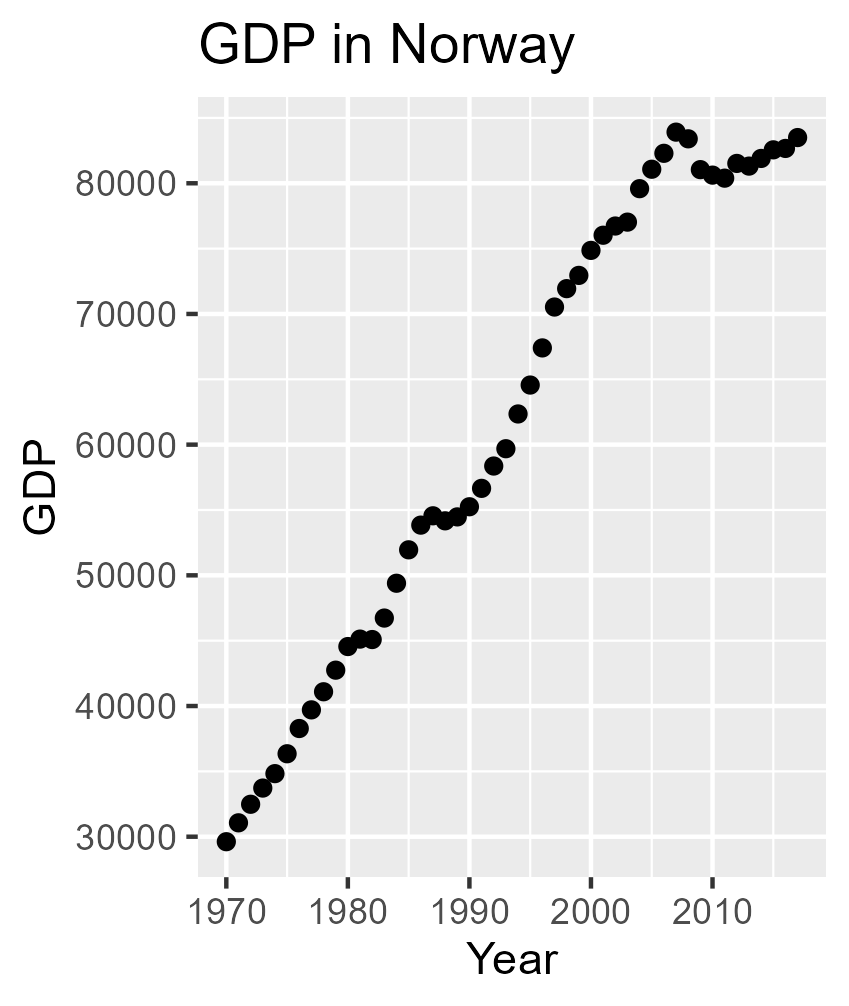
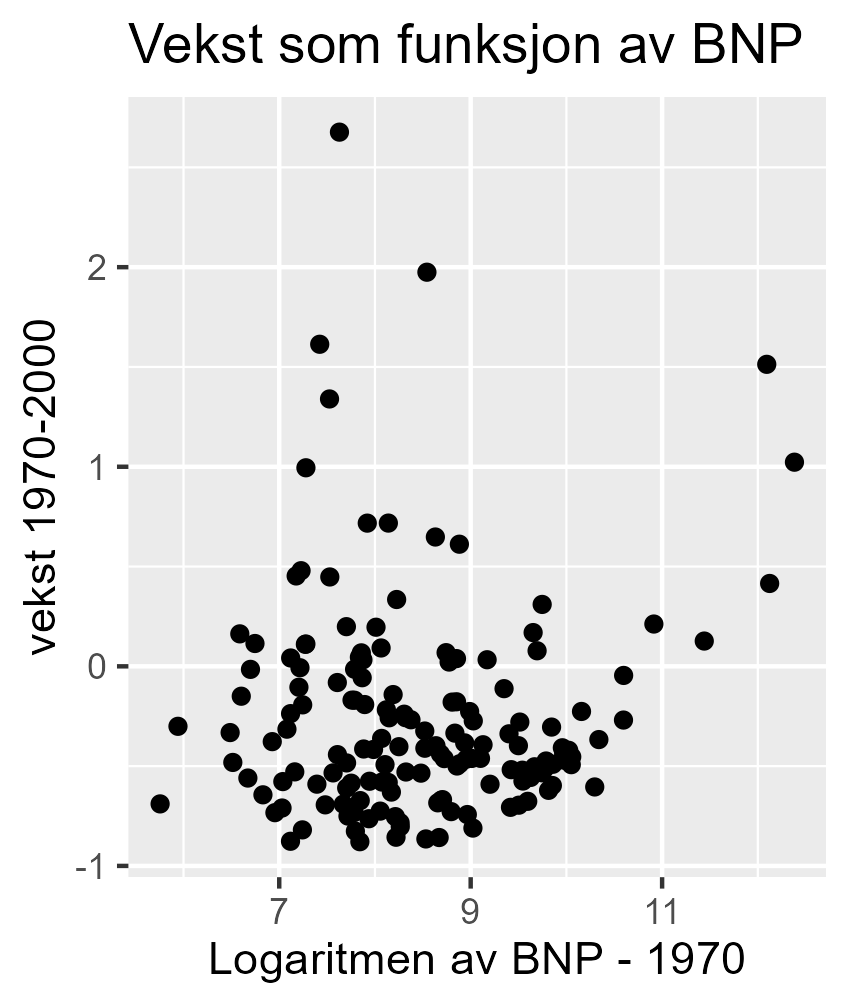
USA mot Kinas utslipp

diff --git a/ECON/Trying_and_failing/Seminar_4/README.md b/ECON/Trying_and_failing/Seminar_4/README.md
@@ -1,0 +1,5 @@
+---
+title: "README"
+output: html_document
+---
+
